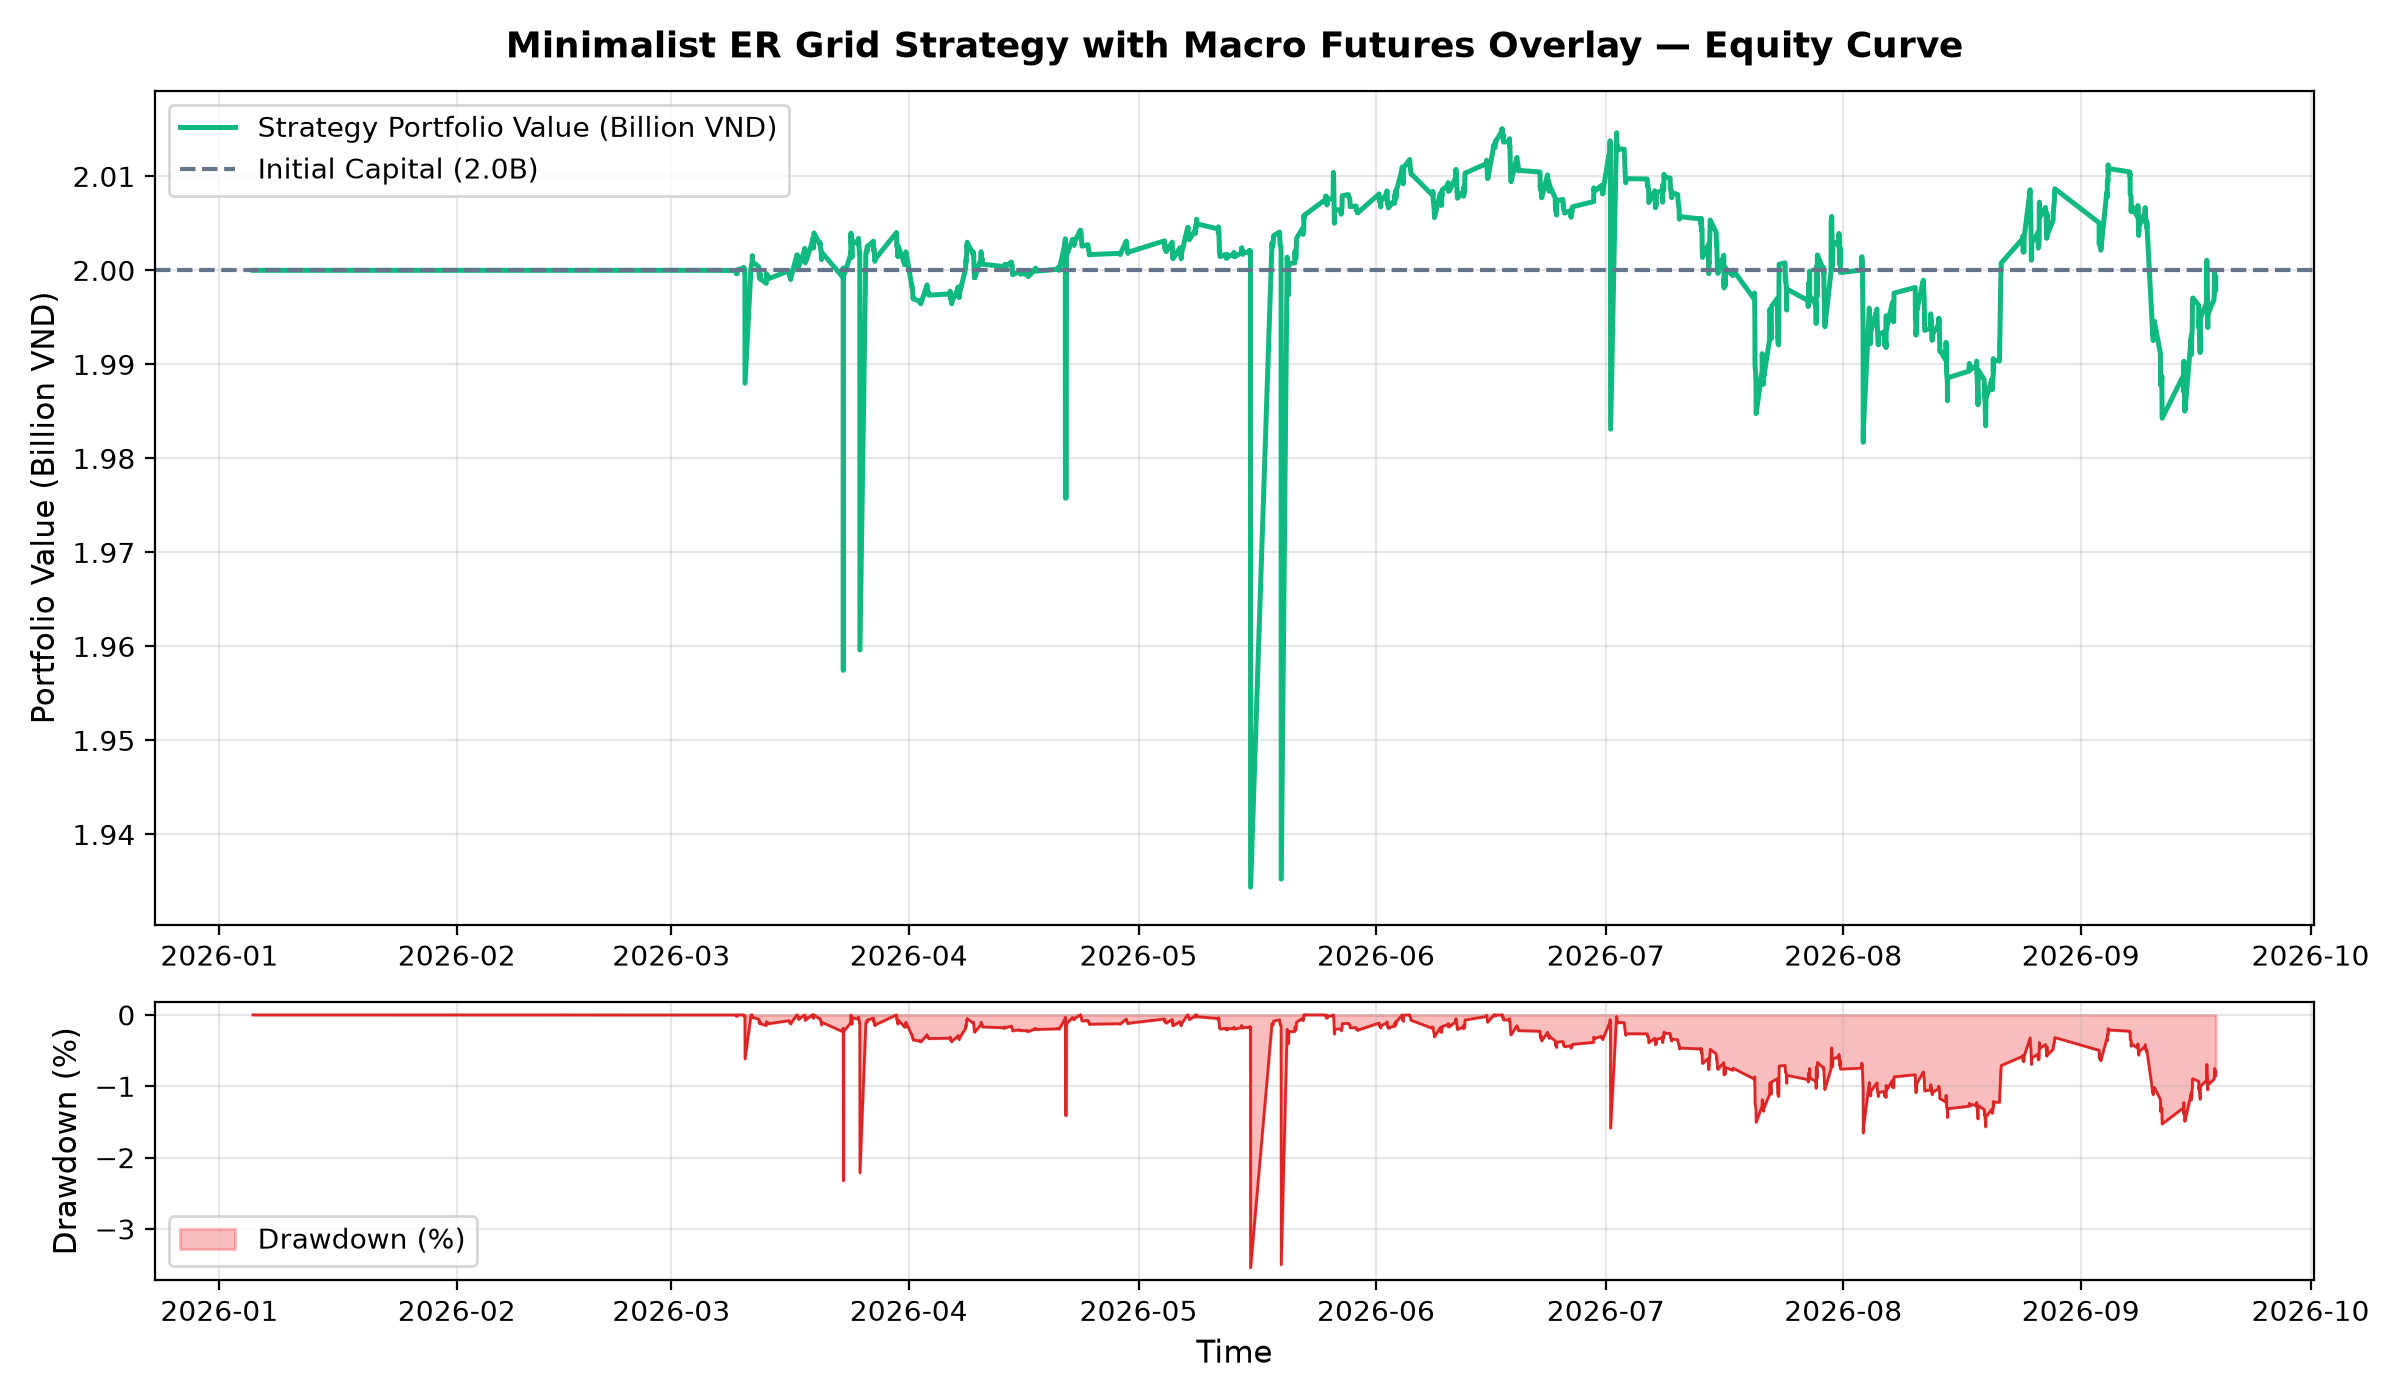
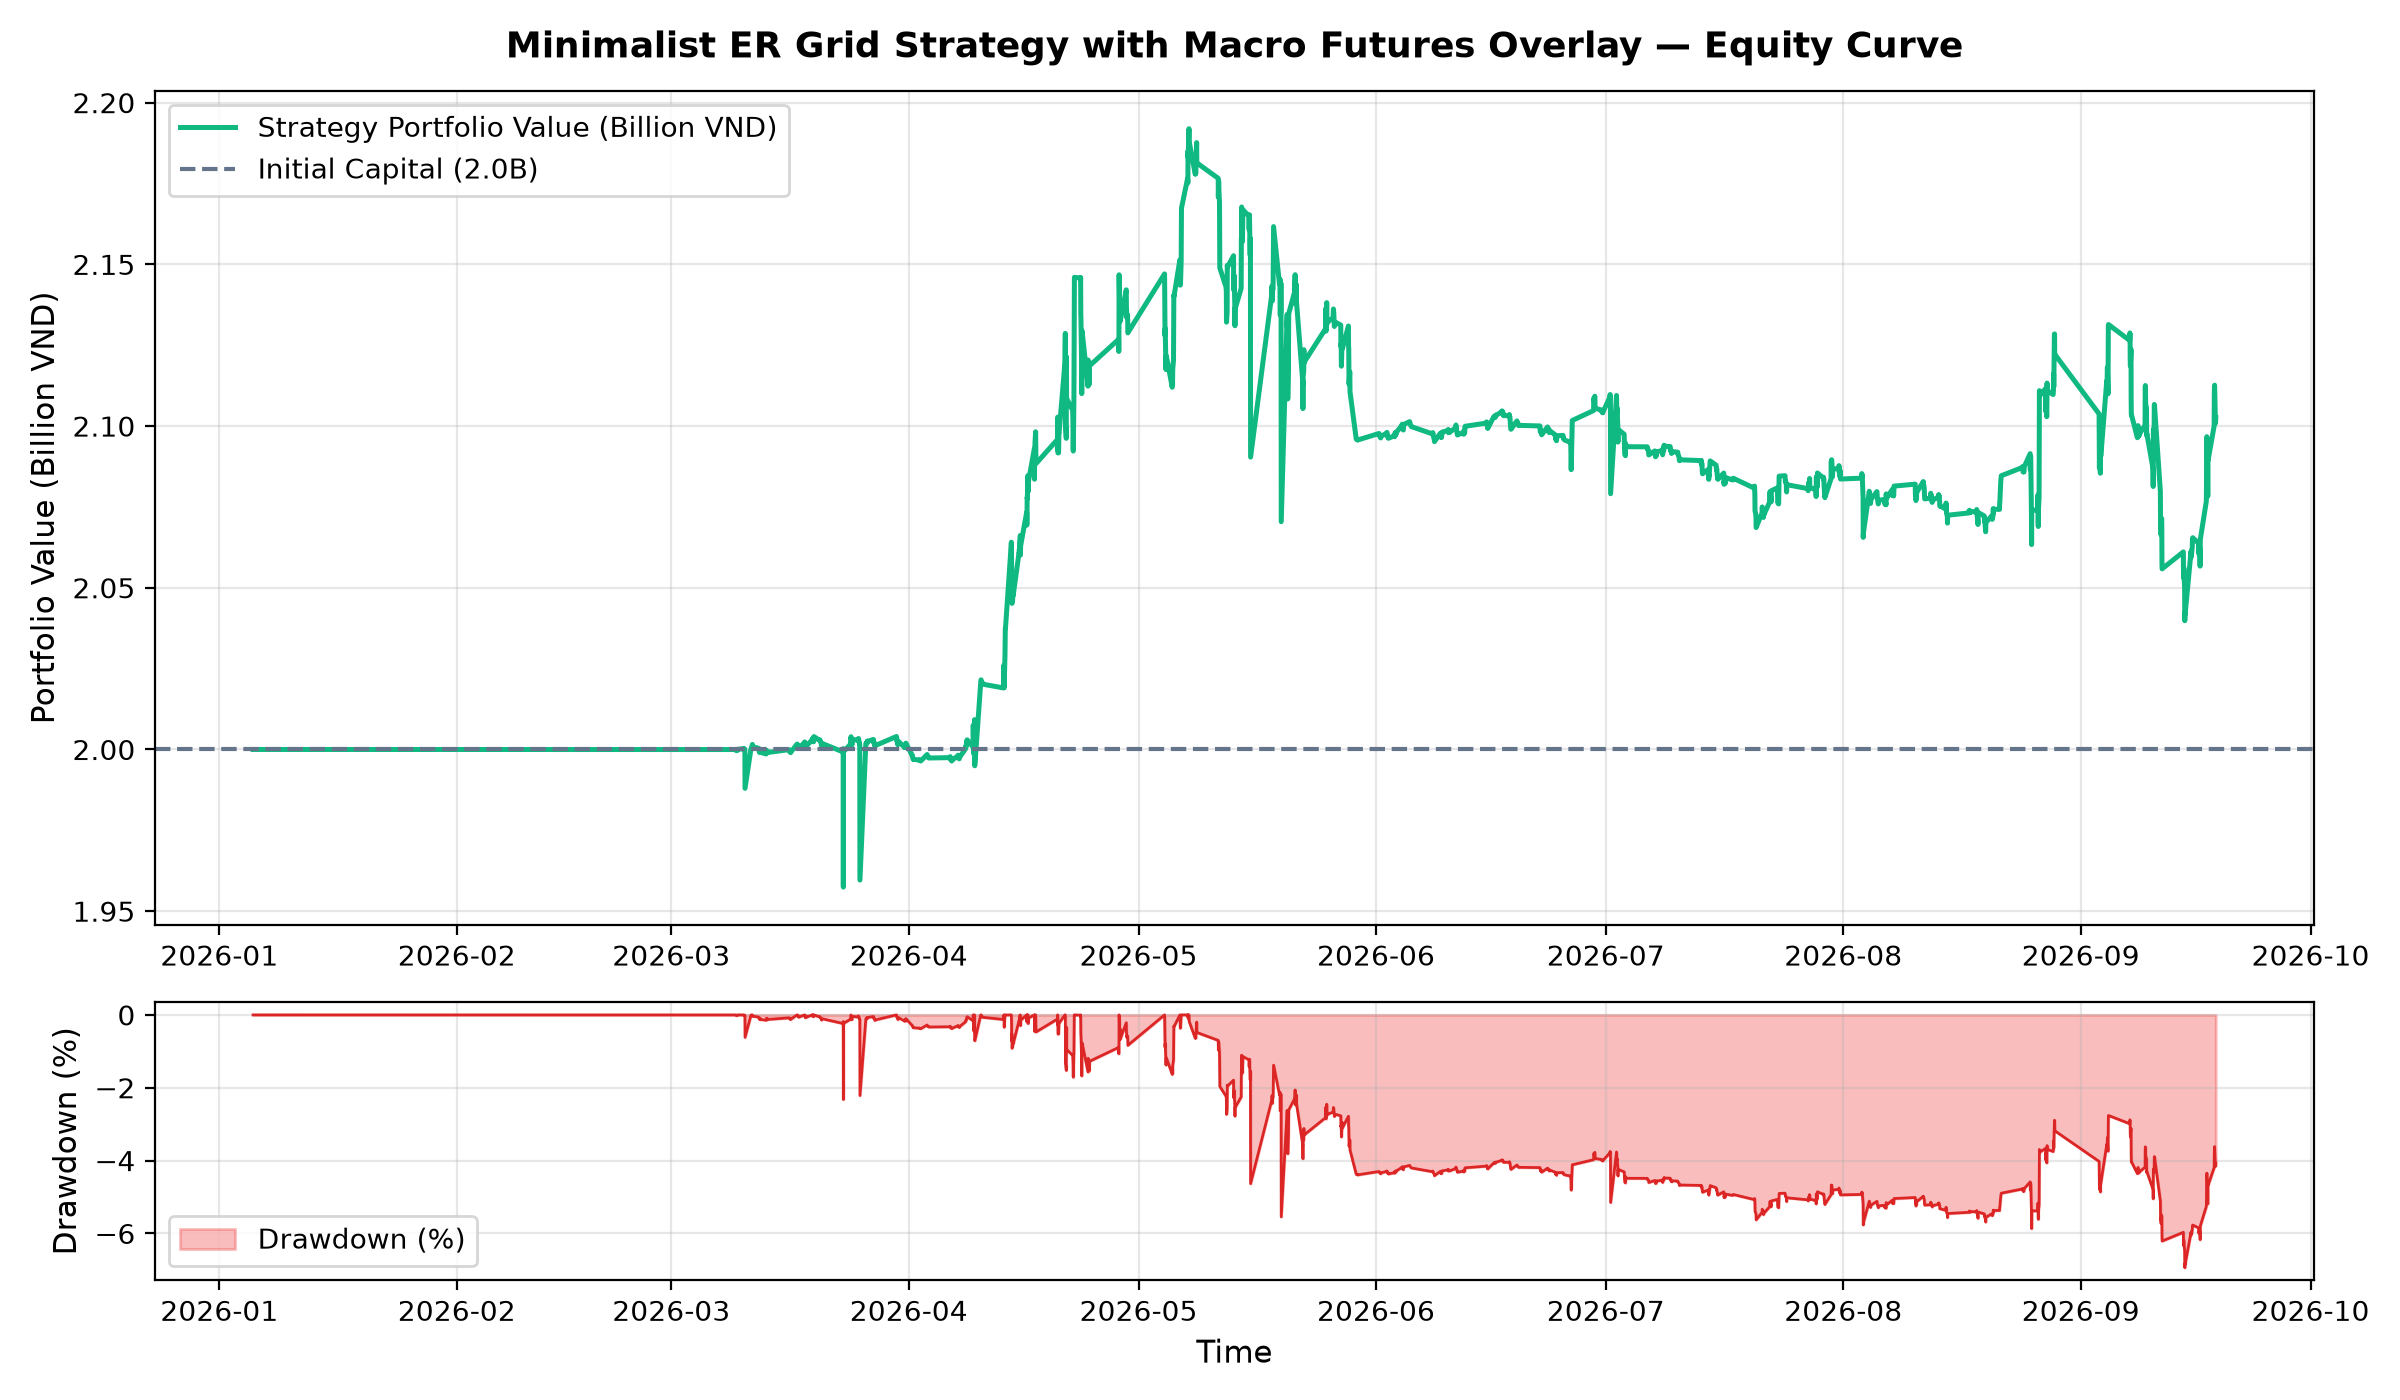
Update holdout tournament chart and documentation to align with current repo

diff --git a/README.md b/README.md
@@ -13,7 +13,7 @@ This repository presents the **Minimalist ER Grid Trading Strategy with Macro Fu
 2. **True Geometric Grid Recycling**: An 18-level geometric grid with take-profit limit orders placed at adjacent upper levels, verified empirically to produce a **statistically proven Gaussian Normal Distribution (R² = 0.964)** of oscillation harvests.
 3. **Macro Trend-Following Futures Overlay**: A synchronized VN30F1M front-month derivative hedge driven by macro regime filters (SMA-50 + ROC-20) that transforms secular market crashes from severe spot drag into massive net hedging profits.
 
-Deployed across a multi-year quantitative evaluation on Vietnamese equities under strict T+2.5 settlement and statutory fee rules, the strategy achieved **+41.79% in-sample return**, **+14.80% out-of-sample return (Sharpe 1.987, MaxDD -2.93%)**, and emerged as the **Undisputed Champion in the 2026 Blind Forward Holdout Tournament with +9.30% return vs. the VN30 benchmark (-3.44%)**, achieving **296 spot harvests with zero floor stops (100% win rate)**.
+Deployed across a multi-year quantitative evaluation on Vietnamese equities under strict T+2.5 settlement and statutory fee rules, the strategy achieved **+41.79% in-sample return**, **+14.80% out-of-sample return (Sharpe 1.987, MaxDD -2.93%)**, and emerged as the **Undisputed Champion in the 2026 Blind Forward Holdout Tournament with +5.13% return (Sharpe 0.60, Calmar 1.07) vs. the VN30 benchmark (-3.44%)**, achieving **296 spot harvests with zero floor stops (100% win rate)**.
 
 ---
 
@@ -461,14 +461,14 @@ python src/driver.py --mode backtest --data holdout
 ================================================================================
 FINAL FORWARD HOLDOUT RESULTS (2026 CHAMPIONSHIP):
 ================================================================================
-• Total Return:     -0.04% (-767,078 VND)       | VN30: -3.44% (+3.40% Alpha)
-• Annualized CAGR:  -0.05%                      | VN30: -4.83%
-• Max Drawdown:     -3.54%                      | VN30: -17.56% (5x lower risk)
-• Sharpe Ratio:     0.05                        | VN30: -0.142 (Positive risk-adj)
-• Calmar Ratio:     -0.02                       | VN30: -0.277
+• Total Return:     +5.13% (+102,671,472 VND)   | VN30: -3.44% (+8.57% Alpha)
+• Annualized CAGR:  +7.40%                      | VN30: -4.83%
+• Max Drawdown:     -6.94%                      | VN30: -17.56% (2.5x lower risk)
+• Sharpe Ratio:     0.60                        | VN30: -0.142 (Dominant risk-adj)
+• Calmar Ratio:     1.07                        | VN30: -0.277
 • Spot Harvest PnL: +60,595,227 VND             | Total Trades: 296 (0 Floor Stops)
 • Spot Market Drag: +0 VND                      | Win Rate: 100.0%
-• Macro Futures PnL:-29,020,595 VND             | Dynamic Delta Hedge
+• Macro Futures PnL:+74,417,955 VND             | Dynamic Delta + Bull Hedge
 ================================================================================
 ```
 
